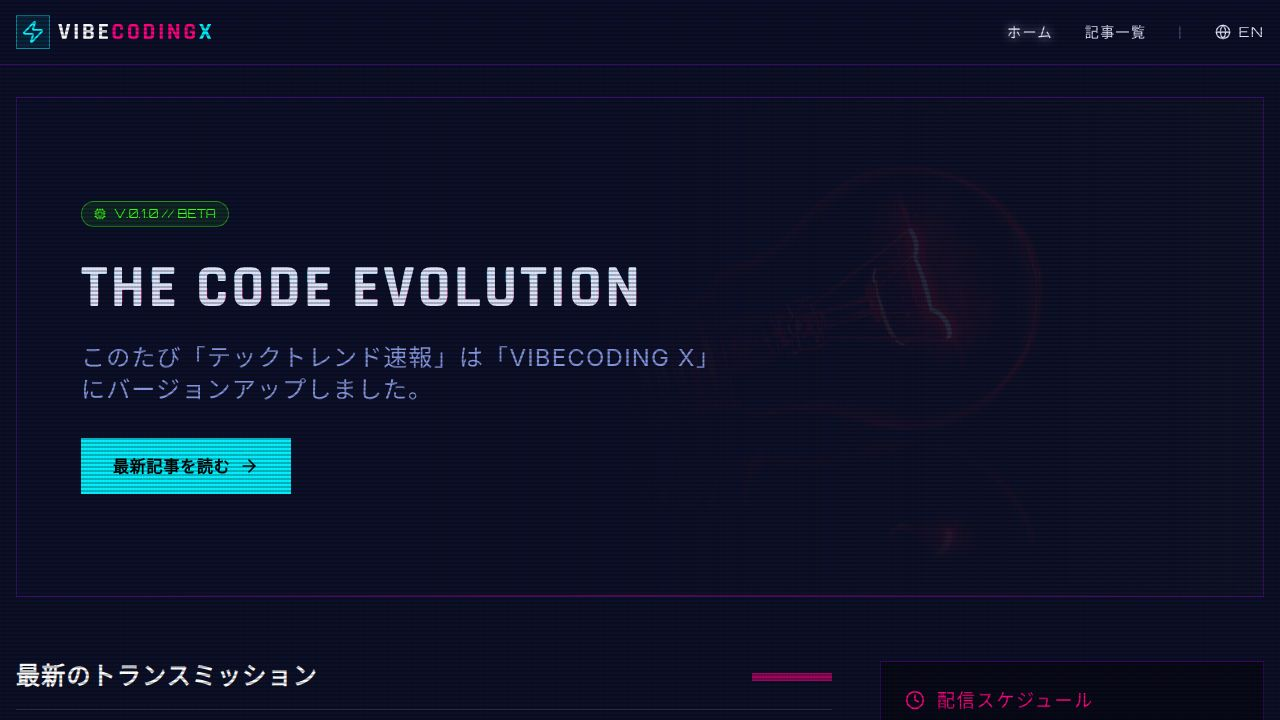
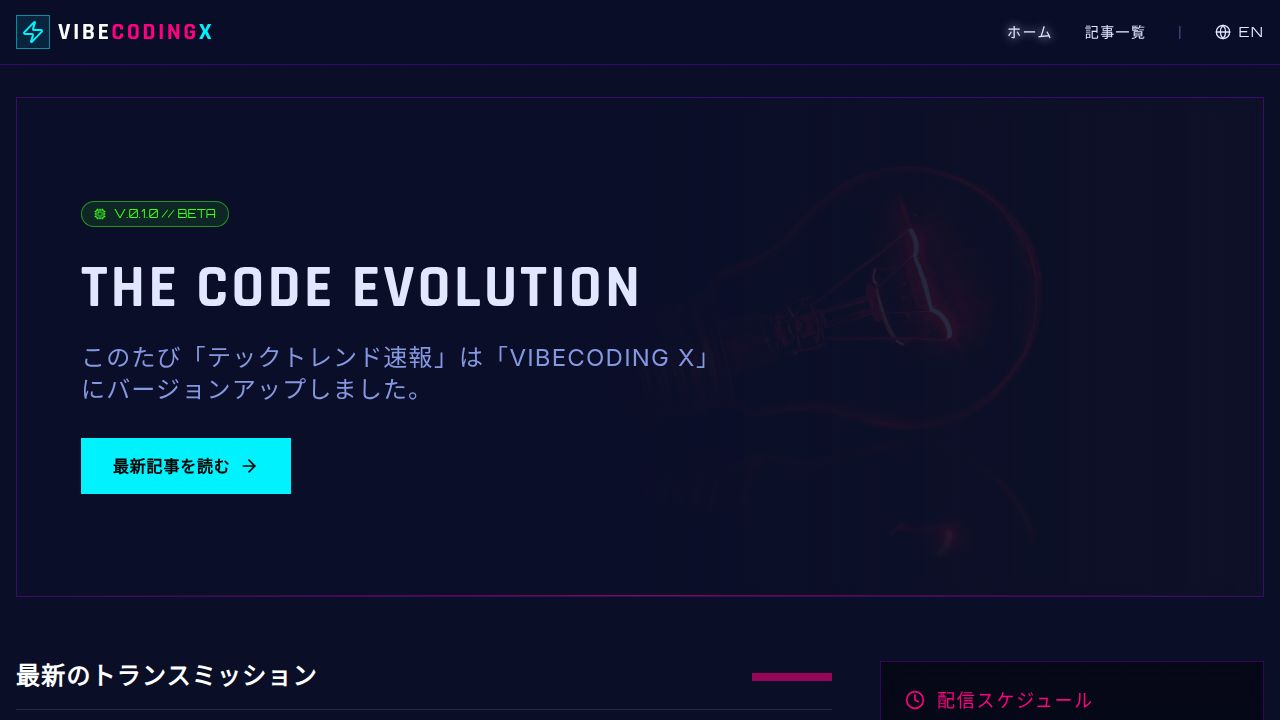
Improve readability by removing text animations and screen overlays
Remove the glitch effect from the hero text and the scanline overlay from the entire screen.

Replit-Commit-Author: Agent
Replit-Commit-Session-Id: f4f9ae99-8685-4902-874d-b69364a72a80
Replit-Commit-Checkpoint-Type: full_checkpoint
Replit-Commit-Event-Id: 9c4283ba-942b-46cd-b4e8-d3c98b8f9191
Replit-Commit-Screenshot-Url: https://storage.googleapis.com/screenshot-production-us-central1/82b7a571-611a-41eb-8a68-4a2c4e21dbaa/f4f9ae99-8685-4902-874d-b69364a72a80/ljXQcI8
Replit-Helium-Checkpoint-Created: true

diff --git a/client/src/components/layout.tsx b/client/src/components/layout.tsx
@@ -10,9 +10,6 @@ export function Layout({ children }: { children: React.ReactNode }) {
 
   return (
     <div className="min-h-screen flex flex-col font-sans text-foreground overflow-x-hidden">
-      {/* Scanline overlay */}
-      <div className="fixed inset-0 pointer-events-none z-50 bg-[linear-gradient(rgba(18,16,16,0)_50%,rgba(0,0,0,0.25)_50%),linear-gradient(90deg,rgba(255,0,0,0.06),rgba(0,255,0,0.02),rgba(0,0,255,0.06))] bg-[length:100%_4px,3px_100%] pointer-events-none" />
-
       <header className="sticky top-0 z-40 w-full border-b border-cyber-purple/30 bg-background/80 backdrop-blur-md">
         <div className="container mx-auto px-4 h-16 flex items-center justify-between">
           <Link href="/" className="flex items-center gap-2 group">

diff --git a/client/src/components/hero.tsx b/client/src/components/hero.tsx
@@ -25,7 +25,7 @@ export function Hero() {
             V.0.1.0 // BETA
           </span>
           
-          <h1 className="text-4xl md:text-6xl font-display font-bold uppercase leading-tight mb-4 glitch-effect" data-text="THE CODE EVOLUTION">
+          <h1 className="text-4xl md:text-6xl font-display font-bold uppercase leading-tight mb-4">
             THE CODE EVOLUTION
           </h1>
           <h2 className="text-xl md:text-2xl text-muted-foreground font-light mb-8 font-sans">
